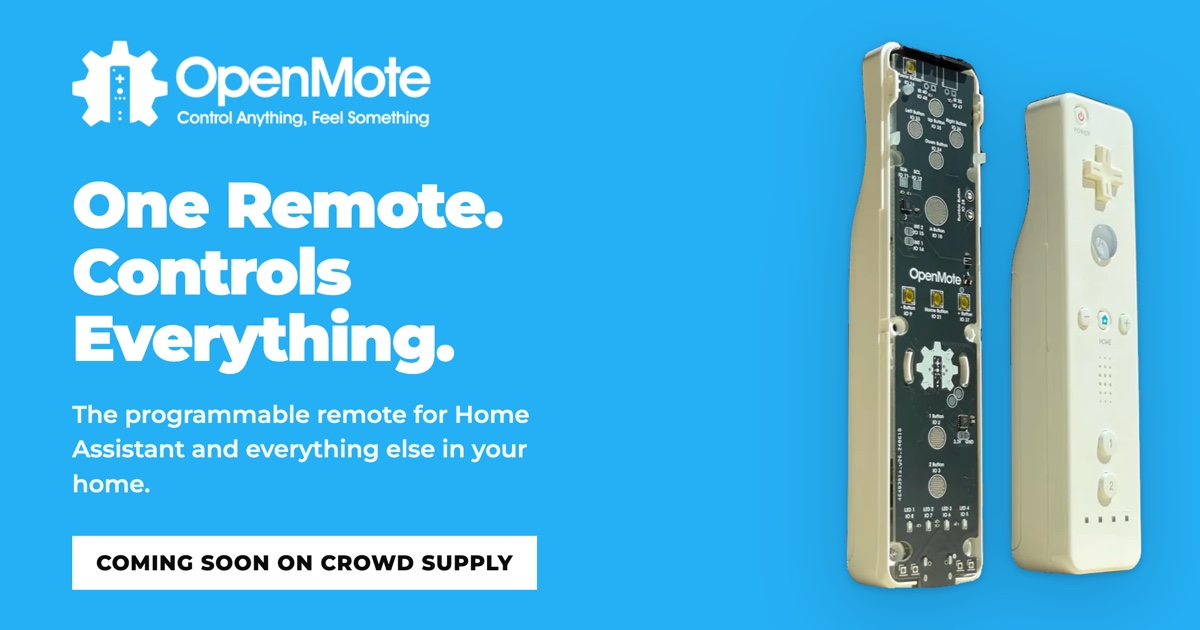
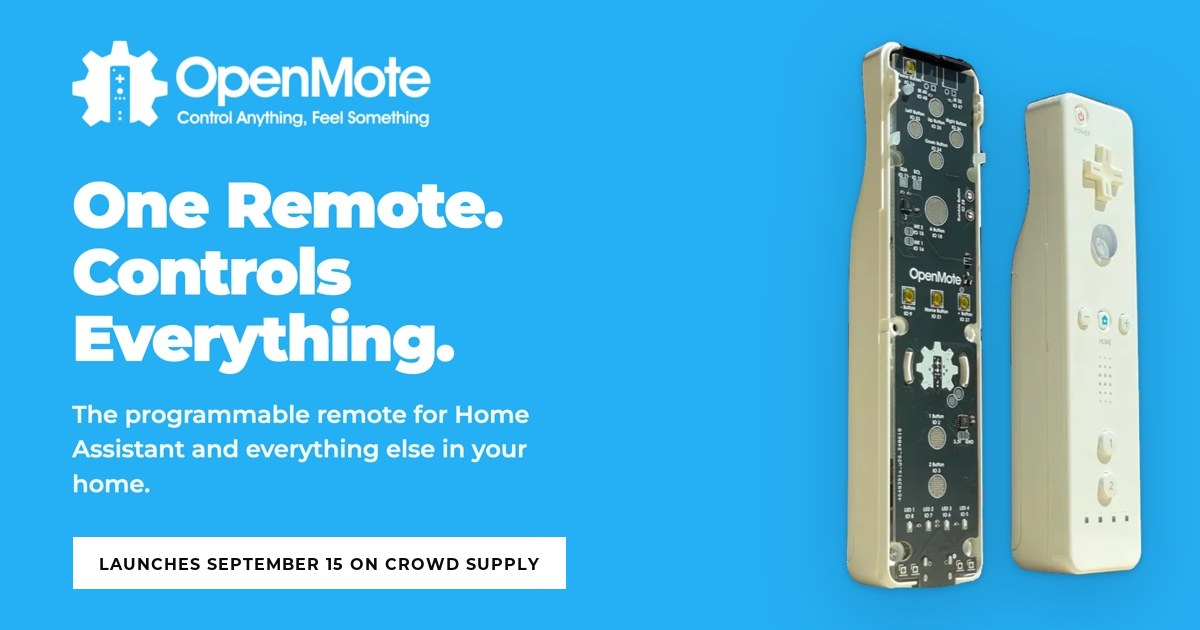
Landing page: launch date September 15 in badge, bar, meta, OG image, schema, llms.txt
Claude-Session: https://claude.ai/code/session_01LgQz7Uw7vJmJ8tamh912kh

Changed region(s): [[0.0617, 0.8444, 0.4933, 0.9349]]

diff --git a/index.html b/index.html
@@ -1194,7 +1194,7 @@
     }
   </style>
 
-  <meta name="description" content="The programmable remote for Home Assistant and your smart home. Pairs as a Bluetooth gamepad, fits an original Wii remote shell. Coming soon on Crowd Supply.">
+  <meta name="description" content="The programmable remote for Home Assistant and your smart home. Pairs as a Bluetooth gamepad, fits an original Wii remote shell. Launches September 15 on Crowd Supply.">
   <link rel="canonical" href="https://openmote.io/">
   <meta name="robots" content="index, follow, max-snippet:-1, max-image-preview:large, max-video-preview:-1">
   <meta name="theme-color" content="#FFFFFF">
@@ -1202,13 +1202,13 @@
   <meta property="og:type" content="website">
   <meta property="og:site_name" content="OpenMote">
   <meta property="og:title" content="One Remote. Controls Everything.">
-  <meta property="og:description" content="Twelve programmable buttons, motion control, and infrared in and out. Works with Home Assistant out of the box. Coming soon on Crowd Supply.">
+  <meta property="og:description" content="Twelve programmable buttons, motion control, and infrared in and out. Works with Home Assistant out of the box. Launches September 15 on Crowd Supply.">
   <meta property="og:url" content="https://openmote.io/">
   <meta property="og:image" content="https://openmote.io/img/og-openmote.jpg">
   <meta property="og:image:type" content="image/jpeg">
   <meta property="og:image:width" content="1200">
   <meta property="og:image:height" content="630">
-  <meta property="og:image:alt" content="The OpenMote remote and its open board on a blue field, with the price and Crowd Supply launch date">
+  <meta property="og:image:alt" content="The OpenMote remote and its open board on a blue field, with the Crowd Supply launch date">
   <meta property="og:locale" content="en_US">
   <meta name="twitter:card" content="summary_large_image">
 
@@ -1287,7 +1287,7 @@
         "@id": "https://openmote.io/#webpage",
         "url": "https://openmote.io/",
         "name": "One Programmable Remote That Controls Everything | OpenMote",
-        "description": "The programmable remote for Home Assistant and your smart home. Pairs as a Bluetooth gamepad, fits an original Wii remote shell. Coming soon on Crowd Supply.",
+        "description": "The programmable remote for Home Assistant and your smart home. Pairs as a Bluetooth gamepad, fits an original Wii remote shell. Launches September 15 on Crowd Supply.",
         "isPartOf": {
           "@id": "https://openmote.io/#website"
         },
@@ -1415,7 +1415,7 @@
             "name": "What is OpenMote?",
             "acceptedAnswer": {
               "@type": "Answer",
-              "text": "OpenMote is a programmable remote control built on the ESP32-S3: twelve buttons, a 6-axis motion sensor, infrared in and out, WiFi, and Bluetooth 5 LE, in a classic Wii-remote-style shell. It is made by Hat & Hammer, a two-person hardware studio in Los Angeles, and it is launching soon on Crowd Supply."
+              "text": "OpenMote is a programmable remote control built on the ESP32-S3: twelve buttons, a 6-axis motion sensor, infrared in and out, WiFi, and Bluetooth 5 LE, in a classic Wii-remote-style shell. It is made by Hat & Hammer, a two-person hardware studio in Los Angeles, and it launches on Crowd Supply on September 15, 2026."
             }
           },
           {
@@ -1545,7 +1545,7 @@
   </div>
   <div class="scroll-cue" aria-hidden="true"><b></b><b></b><b></b></div>
   <div class="hero-content">
-    <div class="badge">Coming Soon</div>
+    <div class="badge">Launches Sept 15</div>
     <h1>One Remote.<span>Controls Everything.</span></h1>
     <p>Twelve buttons. Infrared in and out, WiFi, and Bluetooth 5 LE. Works with Home Assistant.</p>
     <button class="cta" onclick="openModal()">
@@ -2061,7 +2061,7 @@
 </footer>
 
 <div class="bar" id="bar" role="region" aria-label="Launch reminder">
-  <p>The Crowd Supply campaign is <strong>launching soon</strong></p>
+  <p>The Crowd Supply campaign launches <strong>September 15</strong></p>
   <button class="join-btn" onclick="openModal()">Join Waitlist</button>
 </div>
 
